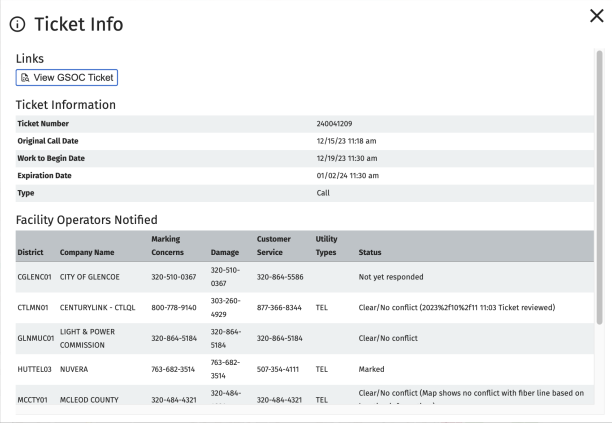
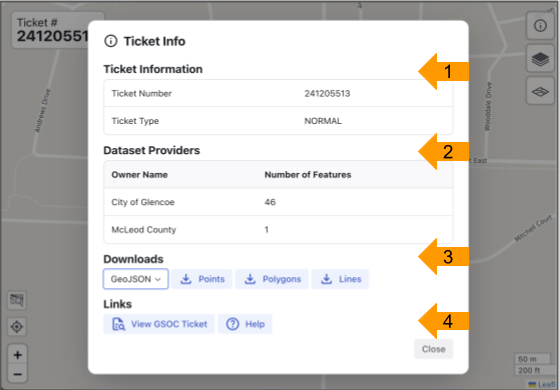
Updates to TicketInfo doc

diff --git a/source/ticketviewer.rst b/source/ticketviewer.rst
@@ -25,7 +25,7 @@ If a feature exists nearby or on top of another feature, those features IDs will
 
 Ticket Info
 ------------
-Click the Information icon at the top right to see ticket info.
+Click the Information icon at the top right to see additional ticket info.
 
 .. figure:: /_static/TicketInfo1.png
    :alt: The FuzionView Ticket Viewer
@@ -33,8 +33,12 @@ Click the Information icon at the top right to see ticket info.
    
    *FuzionView Ticket Viewer*
 
-The Ticket Info view displays basic ticket details and the facility owners that have been notified. Scroll down to see all available information.
-
+The Ticket Info view has the following tools and information:
+   1. Ticket Information - Ticket Number and Type.
+   2. Data Set Providers - the owners who provided the information and the count of features they manage.
+   3. Options for Downloading the ticket map information. *See the section below on Downloads*
+   4. Links to the GSOC Ticket and Help. *See the section below on GSOC Ticket*
+   
 .. figure:: /_static/TicketInfo2.png
    :alt: The FuzionView Ticket Info
    :class: with-border
